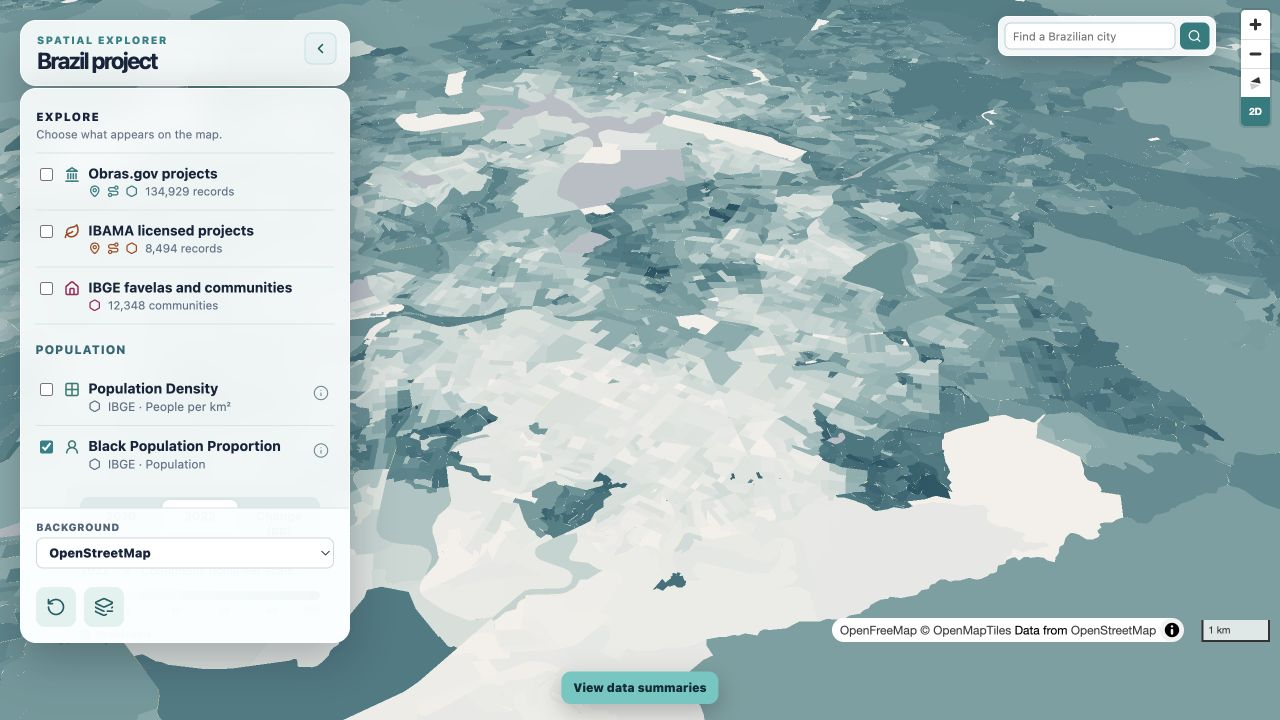
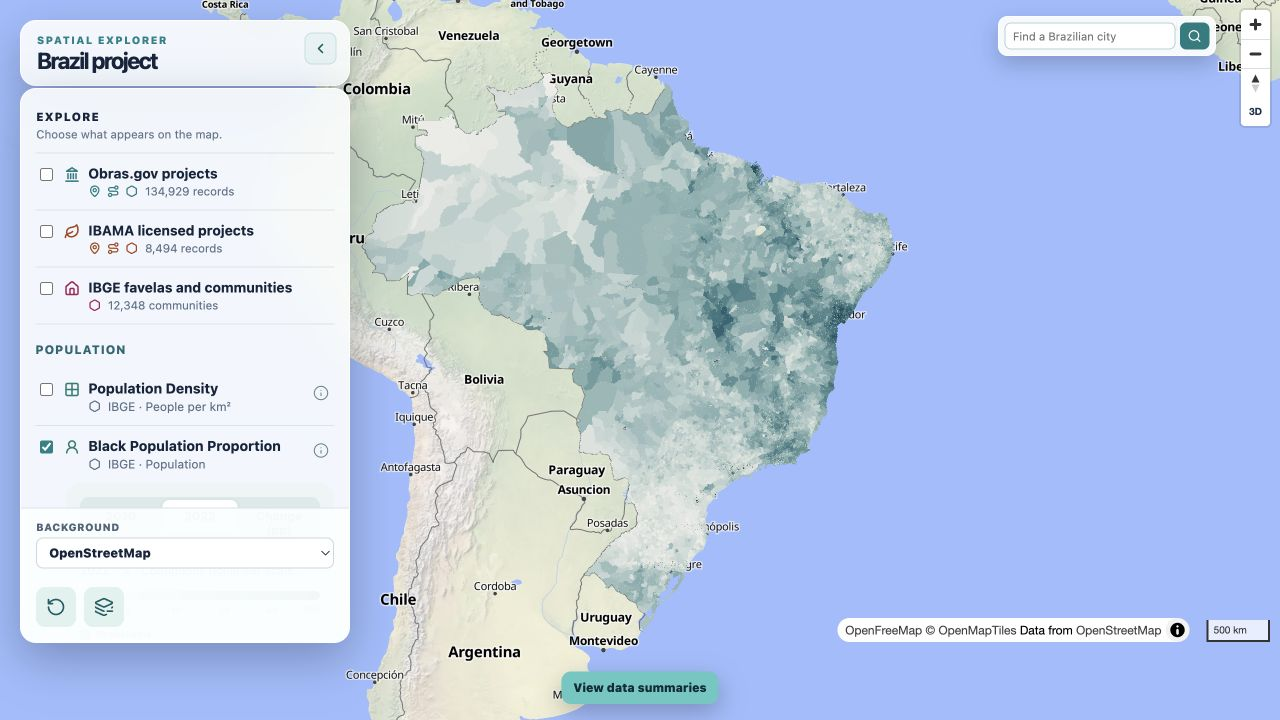
Set Brazil project to national scope

diff --git a/_portfolio/brazil-infrastructure.md b/_portfolio/brazil-infrastructure.md
@@ -1,6 +1,6 @@
 ---
 title: "Infrastructure investment in Brazil"
-excerpt: "National-scale geospatial research on infrastructure investment patterns, with supporting analysis of census geography in Belo Horizonte."
+excerpt: "National-scale geospatial research on infrastructure investment patterns and census geography across Brazil."
 collection: portfolio
 area: "Infrastructure & GIS"
 period: "2026–present"
@@ -24,7 +24,7 @@ This project analyses infrastructure investment patterns across Brazil at nation
 
 ## My contribution
 
-I lead the quantitative research project. The supporting data work includes comparing census tract boundaries across 2000, 2010, and 2022 in Belo Horizonte.
+I lead the quantitative research project. The supporting data work includes comparing census tract boundaries across 2000, 2010, and 2022 at national scale.
 
 ## Methods and data
 
